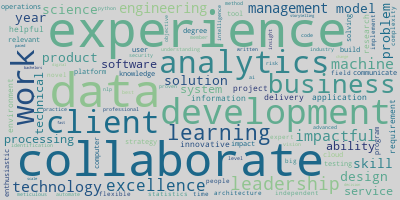
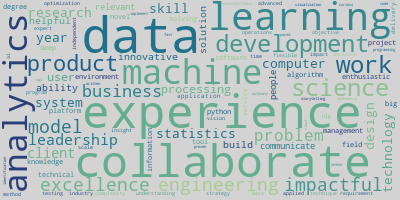
parsed ml algorithms for subtopic lists

diff --git a/nlp_main.py b/nlp_main.py
@@ -917,7 +917,7 @@ def clean_terms_for_nlp(series_of_interest):
                                             'dual', 'adjacent', 'locate', 'smooth', 'infer', 'revision', 'multiservice',
                                             'evolent', 'nuanced', 'iqvia', 'treating', 'motorola', 'exponential', 'periodically',
                                             'brick',  'offsite', 'commencement', 'doresponsibilities', 'countless', 'hourly',
-                                            'boost', 'neurips', 'bm', 'telco', 'crystal', 'keller', 'hortonworks',
+                                            'neurips', 'bm', 'telco', 'crystal', 'keller', 'hortonworks',
                                             'junction', 'covidrelated', 'glass', 'amplified', 'cosmetic', 'ara',
                                             'discussing', 'modified', 'gold', 'genesys', 'axon', 'distributor', 'paternity',
                                             'helm', 'removing', 'comprises', 'timeoff', 'missile', 'rx', 'agentbased',
@@ -1697,6 +1697,7 @@ def clean_terms_for_nlp(series_of_interest):
                   'engage': 'engagement',
                   'engages': 'engagement',
                   'engineer': 'engineering',
+                  'ensembling': 'ensemble',
                   'willingness': 'enthusiasm',
                   'energetic': 'enthusiastic',
                   'attitude': 'enthusiastic',
@@ -1789,6 +1790,7 @@ def clean_terms_for_nlp(series_of_interest):
                   'forward': 'forward-thinking',
                   'gans': 'gan',
                   'generative': 'gan',
+                  'boost': 'gbm',
                   'boosted': 'gbm',
                   'boosting': 'gbm',
                   'google': 'gcp',
@@ -4196,9 +4198,13 @@ def nlp_skill_lists(additional_stopwords):
     subtopic_dl_supporting = ['automl', 'ensemble', 'lightgbm', 'neuron', 'nvidia', 'onnx', 'pipeline',
                               'pla', 'tensorrt'] ### 
 
-    ####### !!!!!!!! WORKING HERE: create subtopic lists 
-    subtopic_ml_algorithms = ['kmeans']
 
+    subtopic_ml_algorithms = ['adaboost', 'anomaly detection', 'apriori', 'classification', 'clustering', 'decision tree', 
+                              'dimensionality reduction', 'ensemble', 'gbm', 'gmm', 'kmeans', 'knn', 'lda', 
+                              'linear regression', 'logistic regression', 'lvq', 'naive bayes', 'pca', 'random forest',
+                              'reinforcement', 'supervised', 'svm', 'unsupervised'] ###
+
+####### !!!!!!!! WORKING HERE: create subtopic lists 
     subtopic_tooling = ['access', 'accumulo', 'alteryx', 'anaconda', 'ansible', 'apache', 'arcgis', 'aspnet', 'bash',
                         'bitbucket', 'cad', 'cassandra', 'centos', 'cli', 'cloudera', 'cognos', 'cosmos', 'cplex', 'cuda',
                         'd3js', 'databricks', 'datarobot', 'dataminr', 'delfi', 'docker', 'domo', 'excel', 'fastapi',
@@ -4231,6 +4237,7 @@ def nlp_skill_lists(additional_stopwords):
                            'accumulo',
                            'accurate', 
                            'activation',
+                           'adaboost',
                            'adobe', 
                            'adopter',
                            'adversarial',
@@ -4256,6 +4263,7 @@ def nlp_skill_lists(additional_stopwords):
                          'application',
                          'applied', 
                          'approach',
+                         'apriori',
                          'arcgis',
                          'architecture',
                          'arima',
@@ -4481,6 +4489,7 @@ def nlp_skill_lists(additional_stopwords):
                          'glm',
                          'glue',
                          'gluon',
+                         'gmm',
                          'go',
                          'golang',
                          'google',
@@ -4598,6 +4607,7 @@ def nlp_skill_lists(additional_stopwords):
                          'ltv',
                          'lubridate',
                          'luigi',
+                         'lvq',
                          'lxc',
                          'lxd',
                          'machine',
